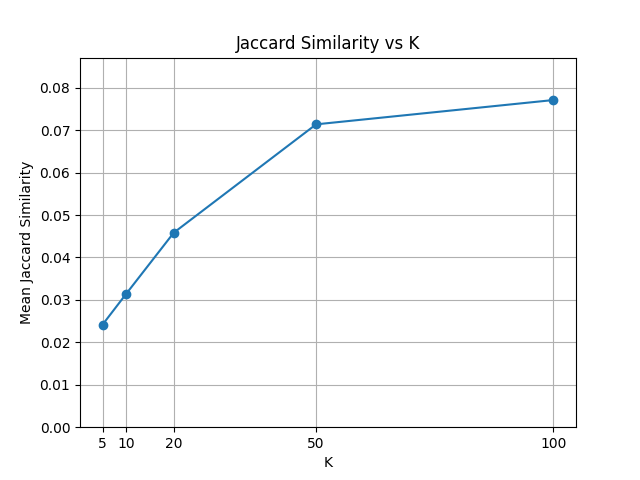
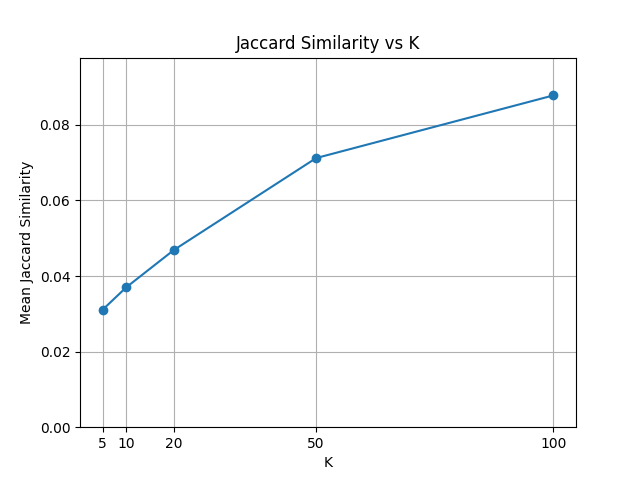
fixed redundant comments. Fixed error inputs for evaluation results which changed outputs returned, but align more accurately with the metrics applied. Generated new graphs based on results.

diff --git a/SmartMatch/Final_solution/evaluationv2.py b/SmartMatch/Final_solution/evaluationv2.py
@@ -86,8 +86,6 @@ class Evaluation:
     
 
      # Implemented to load the resume CV into a dataframe, clean the dataset etc.
-    
-
     def cv_dataset(self, file_loc):
 
         # store dataset as df
@@ -144,7 +142,6 @@ class Evaluation:
 
     # Evaluating both TF-IDF and Sentence Embeddings models
     # in a single function using: Top-K Overlap (Overlap@K), Jaccard Similarity
-
     def evaluate_models(self, cv_data, k):
 
         # each index contains results per inputted CV
@@ -183,16 +180,19 @@ class Evaluation:
             tfidf_similarity = cosine_similarity(X_tfidf, Y_tfidf)
             embeddings_similarity = cosine_similarity(X_embeddings, Y_embeddings)
 
+            # 2-D matrices flattened to 1-D array for easier processing
             tfidf_scores = tfidf_similarity.flatten()
             embeddings_scores = embeddings_similarity.flatten()
 
+            # argsort returns indices that sort scores in ascending order (lowest → highest)
+            # [-k:] slices the last K indices (highest scoring) 
+            # [::-1] reverses to descending order
             kbest_tfidf = np.argsort(tfidf_scores)[-k:][::-1]
-
             kbest_embeddings = np.argsort(embeddings_scores)[-k:][::-1]
 
-            # Retrieve job_ids and job titles for top k results 
-            tfidf_ids, tfidf_titles = self.get_recommended_roles(kbest_tfidf)
-            embeddings_ids, embeddings_titles = self.get_recommended_roles(kbest_embeddings)
+            # Retrieve job_ids for top k results 
+            tfidf_ids = self.get_recommended_roles(kbest_tfidf)
+            embeddings_ids = self.get_recommended_roles(kbest_embeddings)
 
             # evaluation #
 
@@ -208,9 +208,11 @@ class Evaluation:
 
         # mean overlap across all CVs
         mean_overlap = sum(overlap_results) / len(overlap_results)
+
+        # mean Jaccard similarity across all CVs
         mean_jaccard = sum(jaccard_results) / len(jaccard_results)
 
-        return mean_overlap, mean_jaccard
+        return mean_jaccard, mean_overlap 
     
     def mean_jaccard_graph(self, k_values, jaccard_means):
 
@@ -667,9 +669,6 @@ class Evaluation:
 
 # testing
 eval = Evaluation()
-
-# industry cv
-lookup_table = eval.jobid_industry_dataset("SmartMatch/Data/job_industries.csv")
 
 # cv dataset
 cv_data = eval.cv_dataset("SmartMatch/Data/Resume.csv")

diff --git a/SmartMatch/Final_solution/preprocessing.py b/SmartMatch/Final_solution/preprocessing.py
@@ -96,7 +96,6 @@ class Preprocessing:
             # load the vectorizer
             self.vectorizer = joblib.load(vectorizer_path)
 
-        
         # If the file does not exist in that path, job postings is vectorised and stored in file 
         # to reduce execution time
         else:
@@ -123,7 +122,7 @@ class Preprocessing:
     # Sentence Embeddings Vectorization (Job-postings)
     def convert_postings_embeddings(self):
 
-        # stores location of the embedded job postings
+        # stores location of the precomputed embedded job postings
         embeddings_path = "SmartMatch/Data/job_embeddings.npy"
 
         # loads the stored embedded job postings into X if the path to the file exists
@@ -137,7 +136,9 @@ class Preprocessing:
             # gets the current model being used 
             model = self.get_model()
 
+            # model encodes the job postings converting it to a dense matrix
             self.X = model.encode(self.pf['Relevant_Fields'], show_progress_bar = True)
+
             # saves the embedded job postings into binary file in NumPy format 
             np.save(embeddings_path, self.X)
         return self.X

diff --git a/SmartMatch/Final_solution/pages/1_TF-IDF_Model.py b/SmartMatch/Final_solution/pages/1_TF-IDF_Model.py
@@ -45,10 +45,9 @@ class Baseline:
         # flatten converts multi-dimensional array into a 1-D array
         scores = similarity_scores.flatten()
 
-        # argsort sorts the indexes of highest values to lowest values in asending order (highest -> list[-1]) 
-        # (lowest -> list[0])
-        # argsort returns indexes that will sort the array in ascending order where the highest score is at the end  
-
+        # argsort returns indices that sort scores in ascending order (lowest → highest)
+        # [-k:] slices the last K indices (highest scoring)
+        # [::-1] reverses to descending order
         k_best = np.argsort(scores)[-k:][::-1]
         n = len(k_best)
 

diff --git a/SmartMatch/Final_solution/pages/2_Embeddings_Model.py b/SmartMatch/Final_solution/pages/2_Embeddings_Model.py
@@ -35,9 +35,10 @@ class smartmatch:
         # flatten converts multi-dimensional array into a 1-D array
         scores = similarity_scores.flatten()
 
-        # argsort sorts the indexes of highest values to lowest values in asending order (highest -> list[len(list-1)]) 
-        # (lowest -> list[0])
 
+        # argsort returns indices that sort scores in ascending order (lowest → highest)
+        # [-k:] slices the last K indices (highest scoring)
+        # [::-1] reverses to descending order
         k_best = np.argsort(scores)[-k:][::-1]
         n = len(k_best)
 
